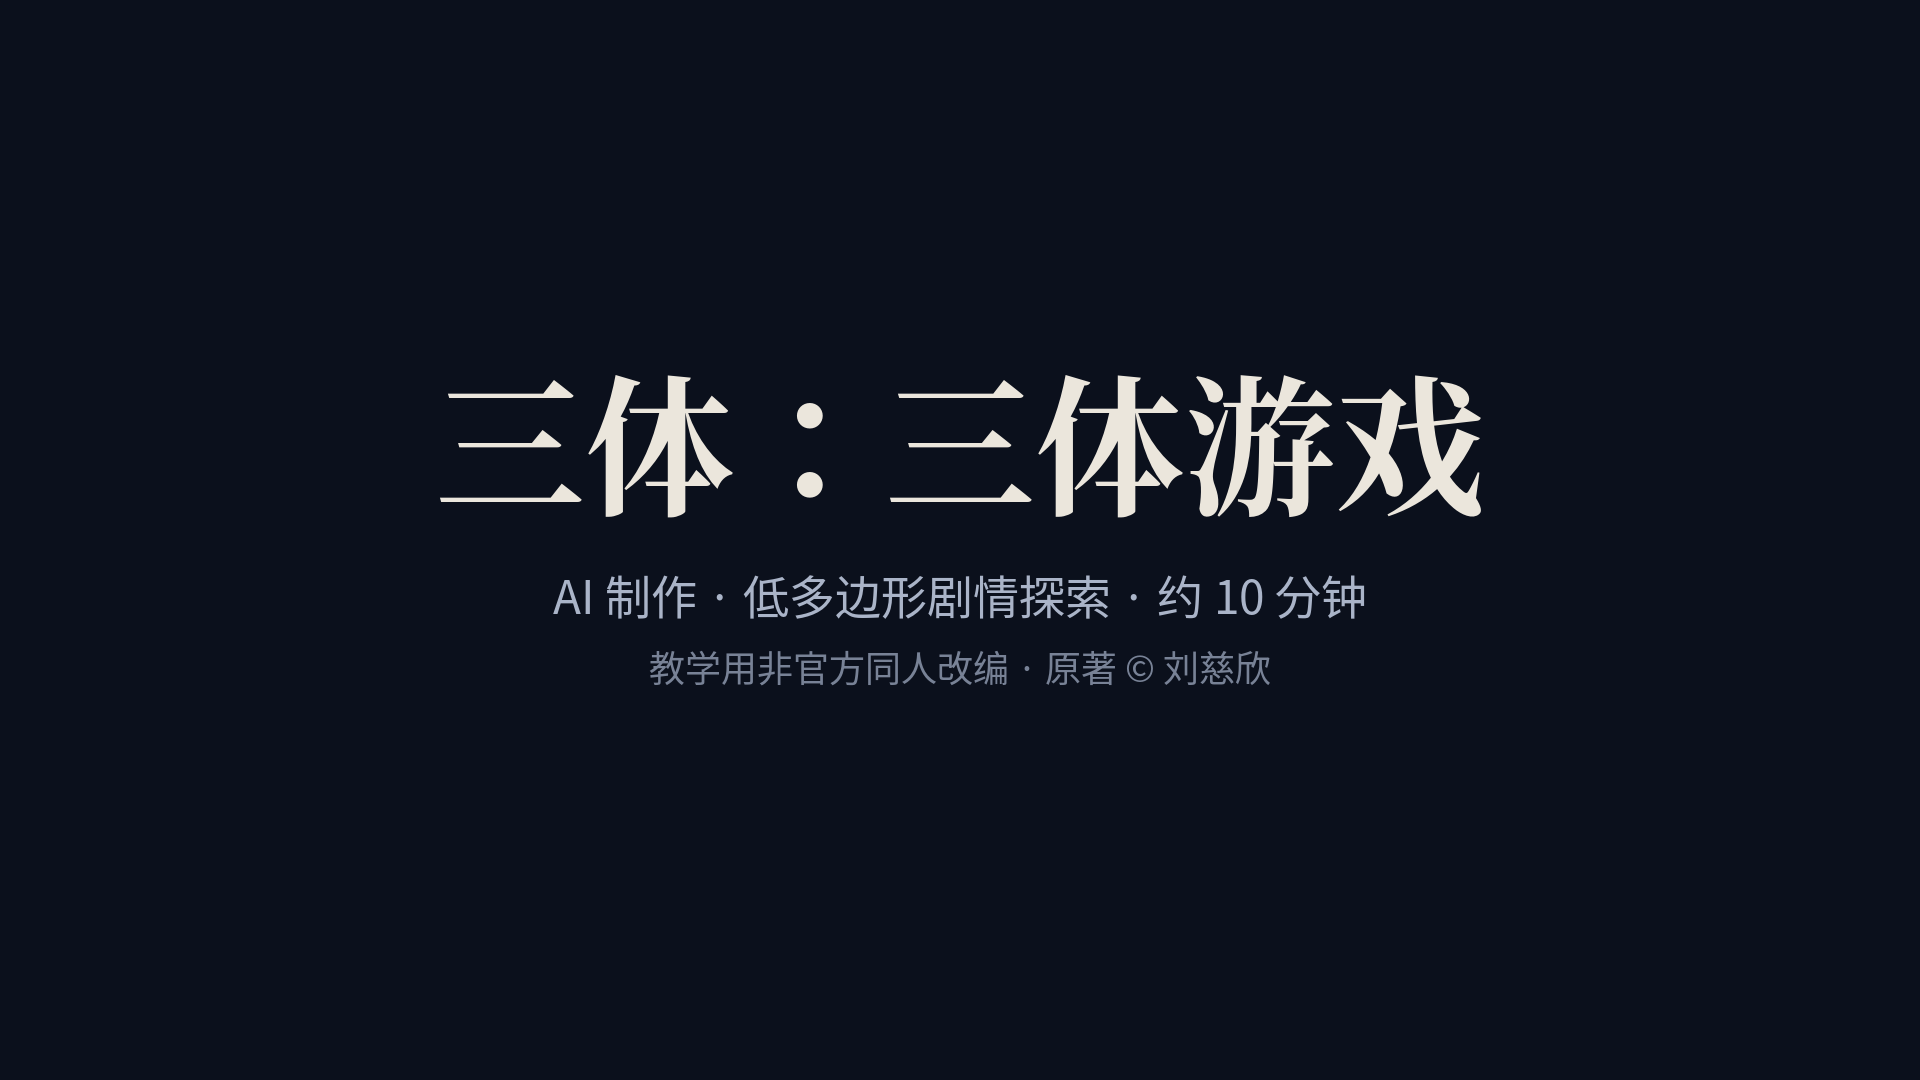
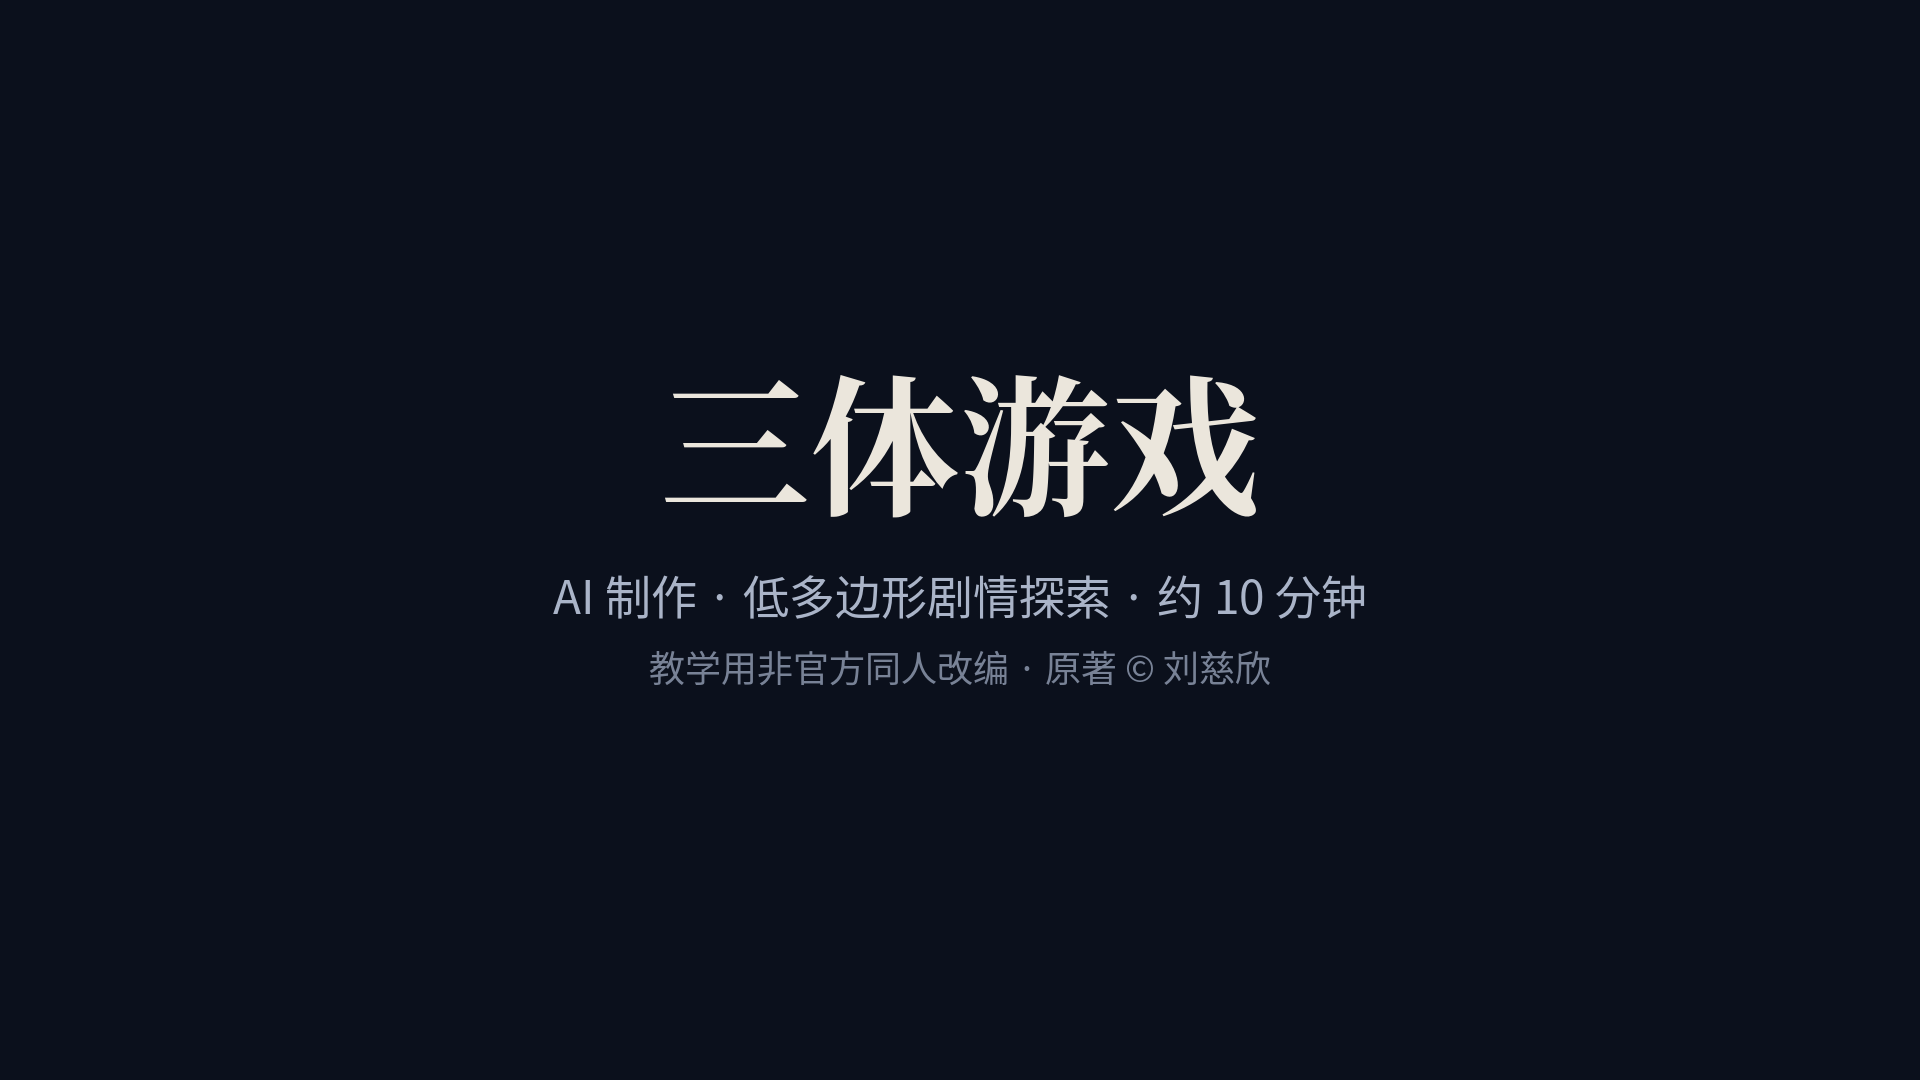
标题统一为《三体游戏》（去掉重复的三体：前缀）：文档、许可、脚本、Unity 产品名、网页标题、宣传片旁白与片头

Changed region(s): [[0.2188, 0.3361, 0.7812, 0.4889]]

diff --git a/dist/webgl/index.html b/dist/webgl/index.html
@@ -3,7 +3,7 @@
   <head>
     <meta charset="utf-8">
     <meta http-equiv="Content-Type" content="text/html; charset=utf-8">
-    <title>三体：三体游戏（AI 低模叙事探索 · 非官方同人改编，原著 © 刘慈欣）</title>
+    <title>三体游戏（AI 低模叙事探索 · 非官方同人改编，原著 © 刘慈欣）</title>
     <link rel="shortcut icon" href="TemplateData/favicon.ico">
     <link rel="stylesheet" href="TemplateData/style.css">
   </head>
@@ -20,7 +20,7 @@
       <div id="unity-footer">
         <div id="unity-logo-title-footer"></div>
         <div id="unity-fullscreen-button"></div>
-        <div id="unity-build-title">三体：三体游戏 · 教学用非官方同人改编，原著 © 刘慈欣 · WASD 移动 / E 互动</div>
+        <div id="unity-build-title">三体游戏 · 教学用非官方同人改编，原著 © 刘慈欣 · WASD 移动 / E 互动</div>
       </div>
     </div>
     <script>

diff --git a/unity/SanTiGame/Assets/Scripts/Editor/Pipeline.cs b/unity/SanTiGame/Assets/Scripts/Editor/Pipeline.cs
@@ -65,7 +65,7 @@ namespace SanTi.Editor
             for (int i = 0; i < QualitySettings.names.Length; i++) { QualitySettings.SetQualityLevel(i, false); QualitySettings.renderPipeline = urp; }
             QualitySettings.SetQualityLevel(lvl, false);
 
-            PlayerSettings.productName = "三体：三体游戏";
+            PlayerSettings.productName = "三体游戏";
             PlayerSettings.companyName = "SanTi AI Lab (非官方同人改编，原著 © 刘慈欣)";
             PlayerSettings.colorSpace = ColorSpace.Linear;
             PlayerSettings.defaultScreenWidth = 1280; PlayerSettings.defaultScreenHeight = 720;
@@ -246,7 +246,7 @@ namespace SanTi.Editor
             PlayerSettings.SetScriptingBackend(NamedBuildTarget.Standalone, ScriptingImplementation.Mono2x);   // 免 IL2CPP 工具链，构建快
             PlayerSettings.SetArchitecture(NamedBuildTarget.Standalone, 2);                                   // 0=Intel 1=Apple Silicon 2=通用
             PlayerSettings.fullScreenMode = FullScreenMode.Windowed; PlayerSettings.resizableWindow = true;
-            var opts = new BuildPlayerOptions { scenes = scenes, locationPathName = Path.Combine(outDir, "三体：三体游戏.app"), target = BuildTarget.StandaloneOSX, options = BuildOptions.None };
+            var opts = new BuildPlayerOptions { scenes = scenes, locationPathName = Path.Combine(outDir, "三体游戏.app"), target = BuildTarget.StandaloneOSX, options = BuildOptions.None };
             var report = BuildPipeline.BuildPlayer(opts);
             Debug.Log($"[SanTi] macOS build {report.summary.result}: {report.summary.totalSize / 1024 / 1024} MB, {report.summary.totalErrors} errors, {report.summary.totalTime.TotalMinutes:F1} min → {outDir}");
             if (report.summary.result != UnityEditor.Build.Reporting.BuildResult.Succeeded) EditorApplication.Exit(1);

diff --git a/unity/SanTiGame/Assets/Scripts/Runtime/ClueManager.cs b/unity/SanTiGame/Assets/Scripts/Runtime/ClueManager.cs
@@ -68,7 +68,7 @@ namespace SanTi
         {
             GameState.InputLocked = true;
             yield return new WaitForSeconds(9f);   // 让尾声字幕读完
-            SubtitleUI.Instance?.ShowEnd(string.IsNullOrEmpty(endText) ? "《三体：三体游戏》\n\n按 R 重新开始" : endText);
+            SubtitleUI.Instance?.ShowEnd(string.IsNullOrEmpty(endText) ? "《三体游戏》\n\n按 R 重新开始" : endText);
         }
     }
 

diff --git a/README.md b/README.md
@@ -1,4 +1,4 @@
-# 《三体：三体游戏》AI 制作工程
+# 《三体游戏》AI 制作工程
 
 逆向 Sac《小王子》管线（PRD → 视觉锚点 → Tripo 资产 → Blender 搭建 → Unity 打包）的《三体》低多边形 3D 剧情探索游戏。
 非官方同人改编，教学/研究用途，原著 © 刘慈欣。
@@ -47,7 +47,7 @@ santi/
 | 旁白音频（9 条，TTS，原著原句） | ✅ Assets/Resources/VO/*.wav |
 | Unity 真机：URP 配置、Legacy 动画、材质转换、曝光/环境光、第 5–6 轮盲审（review/round05_06_unity_real.md、round06_unity_board.jpg） | ✅ Mac 上 batchmode 一键流水线，三场景可玩 |
 | WebGL 打包 | ✅ dist/webgl/ 20 MB（贴图外置后从 145 MB 降下来），Gzip + 解压回退，任何静态托管可用 |
-| macOS 打包 | ✅ Pipeline.BuildMac → Builds/macOS/三体：三体游戏.app（通用二进制，135 MB；课堂离线兜底） |
+| macOS 打包 | ✅ Pipeline.BuildMac → Builds/macOS/三体游戏.app（通用二进制，135 MB；课堂离线兜底） |
 | 托管 | ✅ GitHub Pages：https://wangshiyun404.github.io/santi-ai-game/ （gh-pages 分支，`scripts/publish_pages.sh` 一键发布，源码仍私有）；Perplexity 预览链接并行。国内可达性待课堂实测；若慢则上腾讯云 COS |
 
 | 剧情层（REA Q10） | ✅ 章节卡（你是谁/在哪/做什么）、目标行 + 进度、屏幕路标、关键线索门控、解说行、三日凌空后回红岸的尾声与结束卡（`StoryDirector`、`SubtitleUI`；文案在 `layouts/*.json` 的 `intro/ending/clues[].story`） |
@@ -67,7 +67,7 @@ $U -batchmode -quit -projectPath $P -executeMethod SanTi.Editor.Pipeline.BuildSc
 $U -batchmode -quit -projectPath $P -executeMethod SanTi.Editor.Pipeline.CaptureReview -logFile ~/santi_cap.log     # 编辑态 5 机位截图 → review/unity/
 $U -batchmode       -projectPath $P -executeMethod SanTi.Editor.Pipeline.PlayCapture   -logFile ~/santi_play.log    # 运行态截图（自己退出）
 $U -batchmode -quit -projectPath $P -executeMethod SanTi.Editor.Pipeline.BuildWebGL    -logFile ~/santi_webgl.log   # → Builds/WebGL（首次 ~13 min，增量 ~1 min）
-$U -batchmode -quit -projectPath $P -executeMethod SanTi.Editor.Pipeline.BuildMac      -logFile ~/santi_mac.log     # → Builds/macOS/三体：三体游戏.app
+$U -batchmode -quit -projectPath $P -executeMethod SanTi.Editor.Pipeline.BuildMac      -logFile ~/santi_mac.log     # → Builds/macOS/三体游戏.app
 ```
 
 GUI 方式：Unity Hub → Add 选择 `unity/SanTiGame` → 菜单 **SanTi → Pipeline → 1…5**。

diff --git a/docs/用户指南.md b/docs/用户指南.md
@@ -1,4 +1,4 @@
-# 《三体：三体游戏》用户指南
+# 《三体游戏》用户指南
 
 教学用非官方同人改编，原著 © 刘慈欣。一款 10 分钟左右的低多边形剧情探索游戏：没有战斗、没有跳跃、不会死，只需要走路、看东西、按 E。
 
@@ -33,7 +33,7 @@
 | 方式 | 适合谁 | 怎么做 |
 |---|---|---|
 | 网页版（GitHub Pages） | 任何有电脑的人 | 用 Chrome / Edge 打开 https://wangshiyun404.github.io/santi-ai-game/ ，等进度条走到 100%（约 22 MB，校园网 10–60 秒；若曾打开过旧版，按 Ctrl/Cmd+Shift+R 强制刷新一次） |
-| 网页版（Perplexity 预览） | 同上，备用线路 | 打开 Perplexity 项目里的「三体：三体游戏（WebGL 预览）」卡片 |
+| 网页版（Perplexity 预览） | 同上，备用线路 | 打开 Perplexity 项目里的「三体游戏（WebGL 预览）」卡片 |
 | macOS 离线版 | 课堂教师机、没网时 | 解压桌面上的 `三体三体游戏_macOS.zip`，右键 App → 「打开」（首次会提示"来自身份不明的开发者"，在 系统设置 → 隐私与安全性 里点「仍要打开」） |
 
 网页版注意：

diff --git a/docs/REA_3A设计研究.md b/docs/REA_3A设计研究.md
@@ -1,4 +1,4 @@
-# 《三体：三体游戏》REA × 3A 设计研究（v0.3 行动稿）
+# 《三体游戏》REA × 3A 设计研究（v0.3 行动稿）
 
 > 目的：回应"去领悟 REA 的精髓，去市面上看别人的游戏，尤其是 3A 大作：他们的审美、视图、动画、故事线设计，还有用户的交互"。
 > 方法：按 REA 的工作方式——先拆解对象（观察 → 证据 → 推断 → 未知），再重建（可核验的具体改动）。所有结论都附核验手段；"看起来差不多"不算过。

diff --git a/docs/PRD.md b/docs/PRD.md
@@ -1,4 +1,4 @@
-# 《三体：三体游戏》低多边形 3D 剧情探索游戏 — 产品需求文档（PRD）v0.1
+# 《三体游戏》低多边形 3D 剧情探索游戏 — 产品需求文档（PRD）v0.1
 
 > 制作方式：逆向 Sac《小王子》管线（PRD → 视觉锚点 → Tripo 资产 → Agent 在 Blender 搭建 → Unity 打包）。
 > 定位：非官方同人改编，教学/研究用途，原著 © 刘慈欣。

diff --git a/docs/REA_逆向台账.md b/docs/REA_逆向台账.md
@@ -1,4 +1,4 @@
-# 《三体：三体游戏》REA 逆向台账
+# 《三体游戏》REA 逆向台账
 
 > 方法来源：[Reverse Engineer Anything（morluto/rea）](https://github.com/morluto/rea)。
 > 被逆向的"目标"不是别人的程序，而是我们自己的成品（take4 真机录像 + 仓库资产）。
